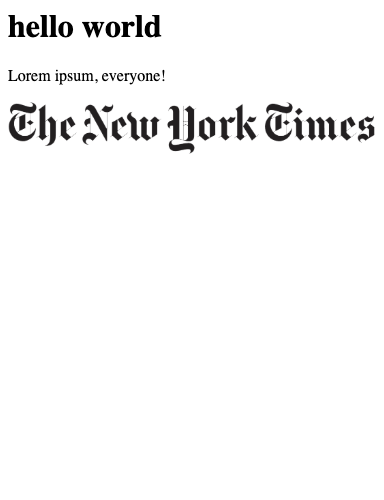
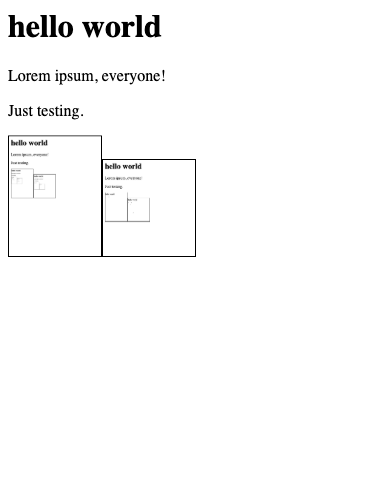
lots more bits working

Changed region(s): [[0.0, 0.21, 1.0, 0.51], [0.3125, 0.39, 0.3438, 0.45]]

diff --git a/test.md.html b/test.md.html
@@ -1,3 +1,15 @@
 <h1>hello world</h1>
 <p>Lorem ipsum, everyone!</p>
-<img src="https://upload.wikimedia.org/wikipedia/commons/7/77/The_New_York_Times_logo.png" width=368>
+<p>Just testing.</p>
+<!-- 384 is the device width, but body has an 8px margin by default, so 384 - 16 = 368 -->
+<!-- 
+<img src="https://upload.wikimedia.org/wikipedia/commons/2/2a/First_Boat_Built_on_the_Western_Waters%2C_1812_%28cropped%29.jpg" width=368>
+-->
+<p><img src="test.md.orig.png" width=92><img src="test.md.png" width=92></p>
+<style>
+img {
+  margin: 0;
+  display: inline-block;
+  border: thin solid black;
+}
+</style>

diff --git a/test.md b/test.md
@@ -3,5 +3,19 @@ hello world
 
 Lorem ipsum, everyone!
 
-<img src="https://upload.wikimedia.org/wikipedia/commons/7/77/The_New_York_Times_logo.png" width=368>
+Just testing.
 
+<!-- 384 is the device width, but body has an 8px margin by default, so 384 - 16 = 368 -->
+<!-- 
+<img src="https://upload.wikimedia.org/wikipedia/commons/2/2a/First_Boat_Built_on_the_Western_Waters%2C_1812_%28cropped%29.jpg" width=368>
+-->
+
+<img src="test.md.orig.png" width=92><img src="test.md.png" width=92>
+
+<style>
+img {
+  margin: 0;
+  display: inline-block;
+  border: thin solid black;
+}
+</style>
